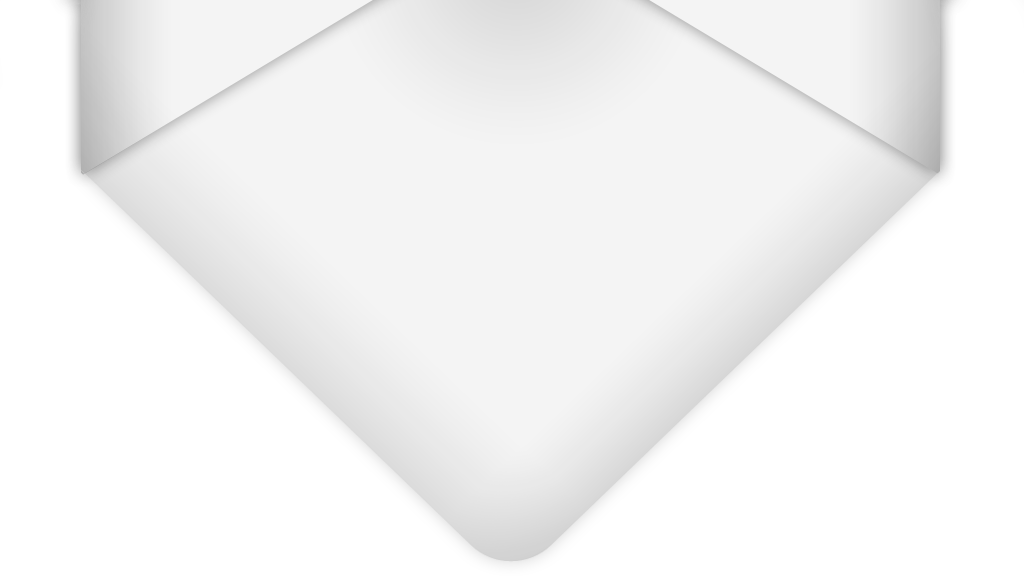
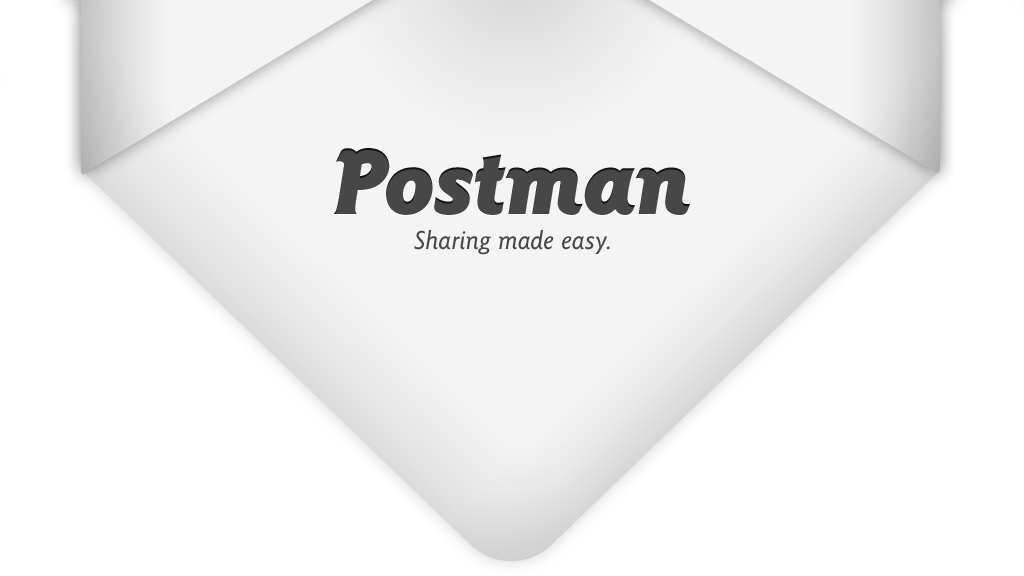
EVERYTHING

Changed region(s): [[0.3125, 0.25, 0.6875, 0.375], [0.4062, 0.4062, 0.5938, 0.4375]]

diff --git a/css/style.css b/css/style.css
@@ -13,7 +13,8 @@ TEXT
 body {
     font-family: "Ubuntu", "Helvetica Neue", Helvetica, Arial, sans-serif;
     color: #6c6a67;
-    padding-bottom: 400px;
+    padding-bottom: 800px;
+    min-width: 960px;
 }
 
 a {
@@ -37,7 +38,7 @@ html {
 
 body {
     background: url('../img/env.png') center top no-repeat;
-    min-width: 960px;
+    
 }
 
 .wrapper {
@@ -50,69 +51,47 @@ HEADER
 ******************************************/
 
 header {
-    text-align: center;
+    height: 576px;
 }
 
-header > h1 {
-    display: inline-block;
-    width: 500px;
-    height: 61px;
-    margin:  148px 0 31px 15px;
-    text-indent: -9999px;
-    background: url('../img/logo.png') no-repeat left top;
+header h1, header p {
+    display: none;
 }
 
-header > p {
-    font-size: 23px;
-    font-weight: 500;
-    text-shadow: black 1px 1px 2px ;
-    margin-bottom: 55px;
-}
-
-header > a {
+header a {
     display: block;
-    top: 60px;
-    width: 400px;
-    height: 180px;
-    left: 80px;
-    margin: auto;
+    top: 412px;
+    left: 393px;
+    width: 243px;
+    height: 173px;
     position: relative;
     text-indent: -9999em;
-    background: url('../img/stamp.png') no-repeat left top;
+    background: url('../img/stamp.png') 0 0 no-repeat;
 
 }
 
-header > a:active {
-    top: 50px;
-    height: 180px;
-
-}
-
-header > a span {
+header a span {
     display: block;
-    width: 400px;
-    height: 270px;
+    width: 243px;
+    height: 173px;
     position: absolute;
-    top: -49px;
+    top: -7px;
     cursor: pointer !important;
-    background: url('../img/stamp.png') no-repeat;
-    background-position: left -185px;
-    opacity:0;
-    -webkit-transition: opacity .5s ease-out;
-    -moz-transition: opacity .5s ease-out;
-    -o-transition: opacity .5s ease-out;
-    transition: opacity .5s ease-out;
+    background: url('../img/stamp.png') 0 -173px no-repeat;
+    opacity: 0;
+    -webkit-transition: opacity .5s;
+    -moz-transition: opacity .5s;
+    -o-transition: opacity .5s;
+    transition: opacity .5s;
 }
 
-header > a:hover span {
+header a:hover span {
     opacity: .8;
-    -webkit-transition: opacity .3s ease-in;
-    -moz-transition: opacity .3s ease-in;
-    -o-transition: opacity .3s ease-in;
-    transition: opacity .3s ease-in;
+    -webkit-transition: opacity .3s ease-out;
+    -moz-transition: opacity .3s ease-out;
+    -o-transition: opacity .3s ease-out;
+    transition: opacity .3s ease-out;
 }
-       
-
 
 /*****************************************
 NAV
@@ -303,9 +282,9 @@ section p {
 
 #steps {
     display: block;
-    width: 900px;
-    height: 330px;
-    background: url('../img/reasons.png') top center no-repeat;
+    width: 838px;
+    height: 273px;
+    background: url('../img/steps.png') top center no-repeat;
     margin: 0 auto;
 }
 
@@ -352,16 +331,13 @@ footer {
 
 footer h1 {
     display: inline-block;
-    width: 500px;
-    height: 61px;
-    margin: 0 0 31px 15px;
-    text-indent: -9999px;
-    background: url('../img/logo.png') no-repeat left top;
+    width: 357px;
+    height: 107px;
+    margin: 0 0 31px 0;
+    text-indent: -99999em;
+    background: url('../img/strapline.png') no-repeat;
 }
 
 footer p {
-    font-size: 23px;
-    font-weight: 500;
-    text-shadow: black 1px 1px 2px ;
-    margin-bottom: 55px;
+    display: none;
 }

diff --git a/index.html b/index.html
@@ -11,10 +11,10 @@
 
     <title>Postman – Sharing made easy</title>
 
-    <link href="./favicon.ico" rel="shortcut icon" />
-    <link href="css/reset.css" rel="stylesheet" />
-    <link href="css/style.css" rel="stylesheet" />
-    <link href="css/tipsy.css" rel="stylesheet" />
+    <link rel="icon" href="img/favicon.png" type="image/png" />
+    <link rel="stylesheet" href="css/reset.css" />
+    <link rel="stylesheet" href="css/style.css" />
+    <link rel="stylesheet" href="css/tipsy.css" />
 
     <script type="text/javascript" src="http://ajax.googleapis.com/ajax/libs/jquery/1.5.1/jquery.min.js"></script>
     <script type="text/javascript" src="js/jquery.tipsy.js"></script>
@@ -23,7 +23,7 @@
 <body>
 <div class="wrapper">
     <header id="header">
-        <h1 id="banner">Postman</h1>
+        <h1>Postman</h1>
         <p>Sharing made easy.</p>
         <a href="#throw" id="ding" title="Ding Dong">
             <span>Ding Dong</span>
@@ -87,7 +87,7 @@
         </ol>
 
         <footer role="fandt" id="follow" class="target">
-                <h1 id="banner">Postman</h1>
+                <h1>Postman</h1>
                 <p>Sharing made easy.</p>
             <div>
                 <h2>Follow us on twitter and facebook® </h2>
